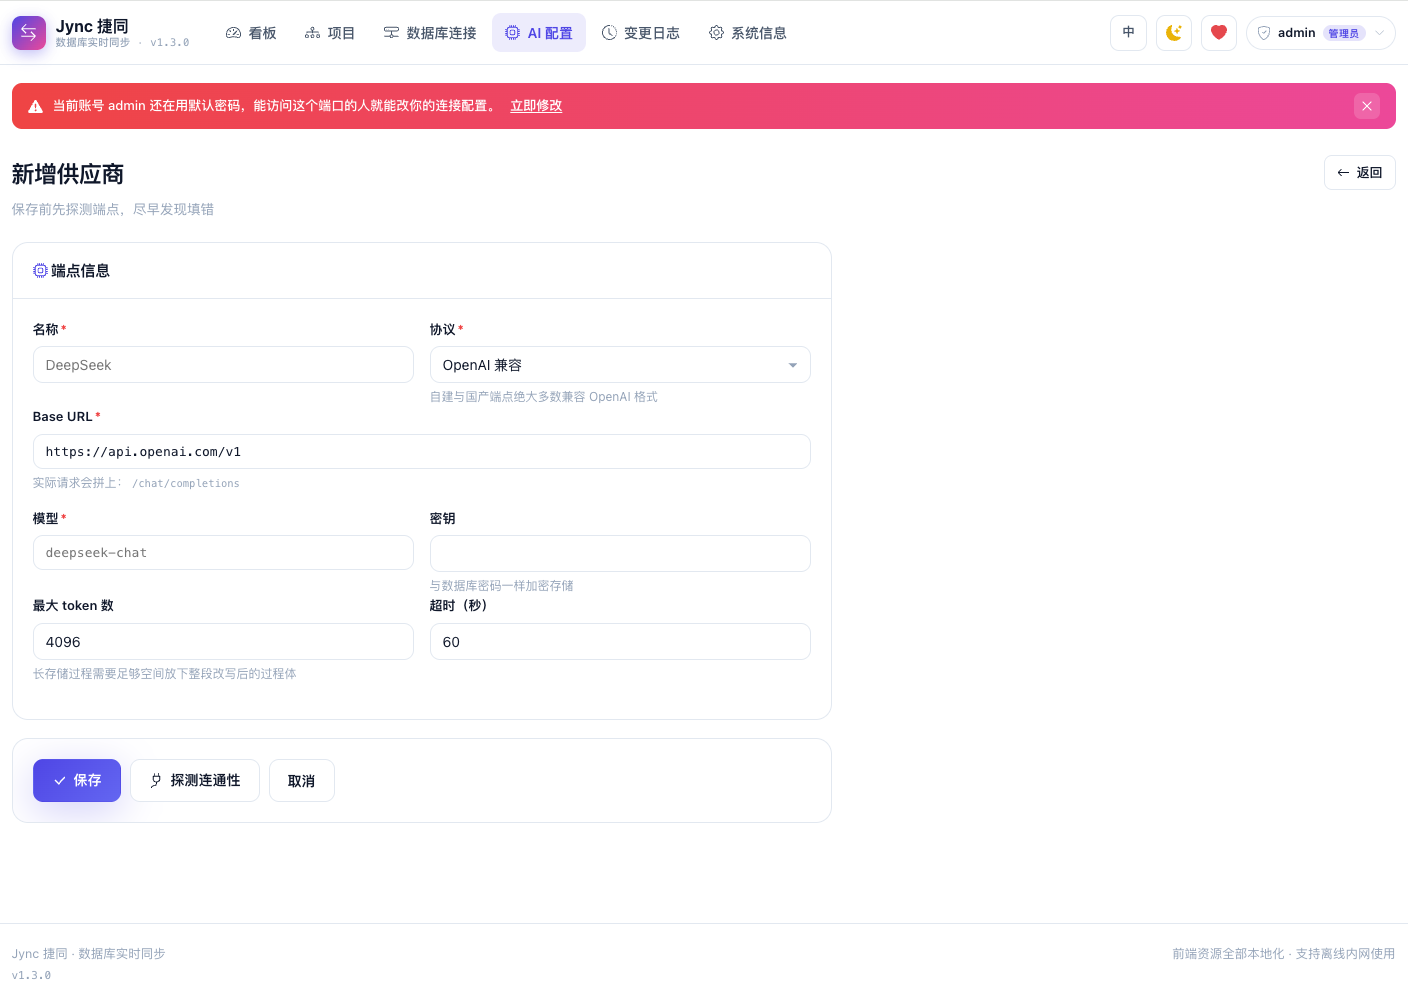
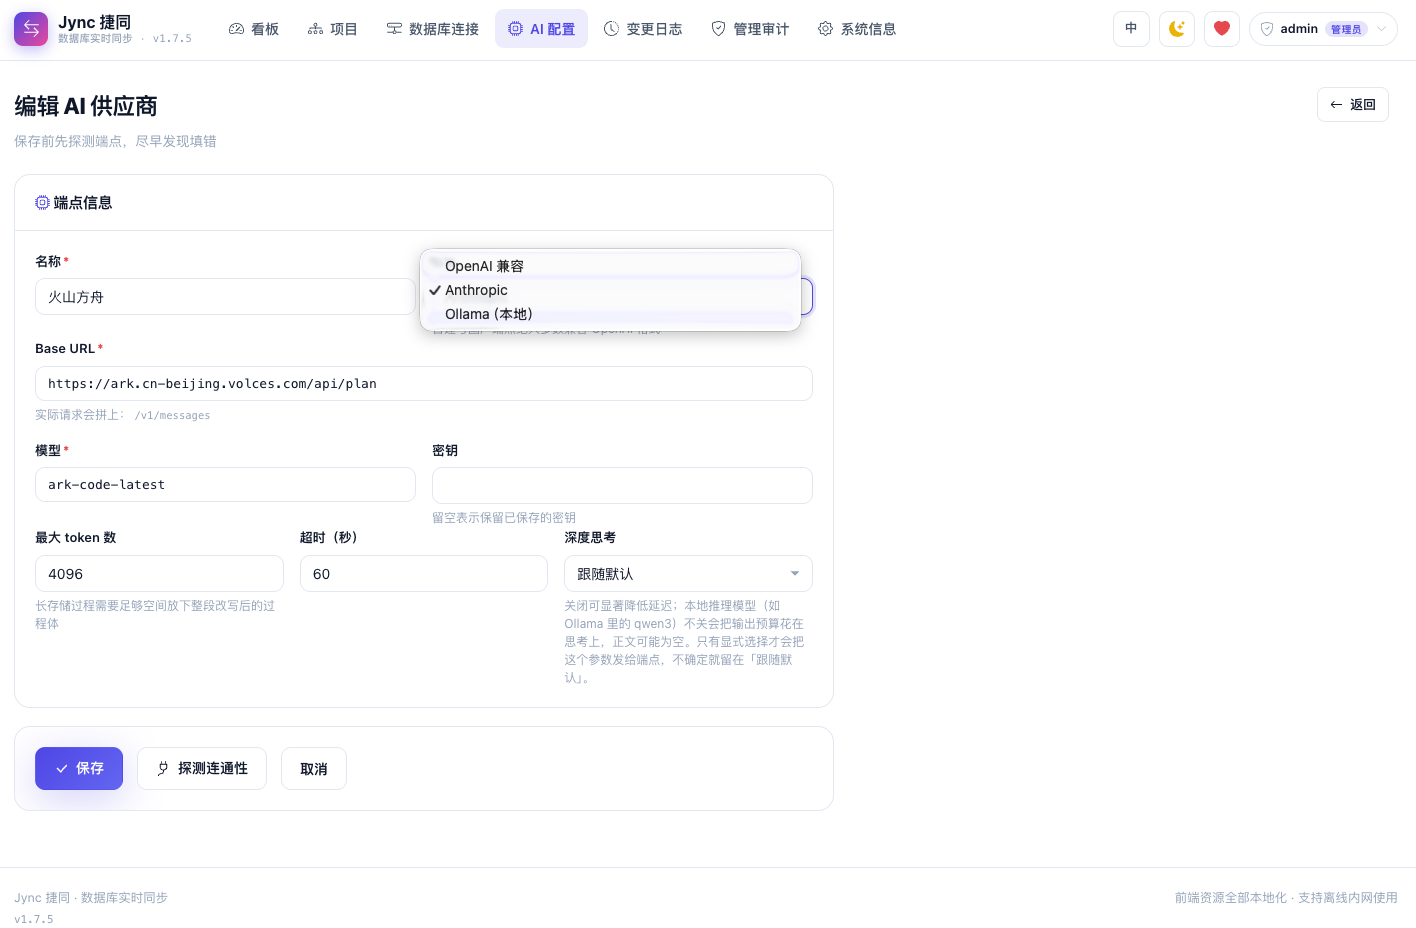
docs: README 同步 AI 配置三协议与推理档位
- 协议由「两种」改为三种，并写明 Ollama 是预设不是第三种协议、走的是
  OpenAI 兼容端点而非原生 /api/chat 及其原因
- 新增深度思考档位一节：四档取值、落参按协议分流、Anthropic 预算必须小于
  max_tokens、跟随默认不发任何字段所以升级不改行为、探测永不携带
- 测试数 1189 → 1338，并补上新覆盖项；合规提示补一句本地端点可直接选预设
- 换用新的 AI 供应商表单截图（含协议下拉与深度思考字段）

diff --git a/README_EN.md b/README_EN.md
@@ -404,10 +404,10 @@ The repo ships a multi-stage `Dockerfile` (the runtime image contains just the J
 docker compose up -d --build
 
 # or, without Compose:
-docker build -t jync:1.7.4 .
+docker build -t jync:1.7.5 .
 docker run -d --name jync -p 8080:8080 \
   -v "$PWD/data:/app/data" -v "$PWD/logs:/app/logs" \
-  -e TZ=Asia/Shanghai --restart unless-stopped jync:1.7.4
+  -e TZ=Asia/Shanghai --restart unless-stopped jync:1.7.5
 ```
 
 Environment-variable overrides (HTTPS cookies, external MySQL for multi-instance setups), TLS, horizontal scaling with more than one replica, image upgrades and troubleshooting are covered in [docs/deploy-container.md](docs/deploy-container.md).
@@ -906,16 +906,19 @@ so two open browser tabs cannot leave two providers enabled.
 
 | Field | Notes |
 |---|---|
-| Protocol | `OpenAI-compatible` or `Anthropic`. Nearly every self-hosted endpoint is the former |
+| Protocol | `OpenAI-compatible`, `Anthropic`, or `Ollama (local)`. Ollama is a preset rather than a third protocol — it speaks the OpenAI shape on `http://localhost:11434/v1` (not its native `/api/chat`), so picking it prefills the address, hides the key field a local model does not need, and relaxes the timeout to 300s. Nearly every self-hosted endpoint is OpenAI-compatible |
 | Base URL | Endpoint root. Vendors disagree about whether `/v1` belongs here, so the form shows the request path that will actually be used |
 | Model | Model name, e.g. `deepseek-chat` |
 | API key | Encrypted with AES-256 like a database password; leave blank when editing to keep the stored value |
 | Max tokens / timeout | A long procedure needs room for the whole rewritten body |
+| Reasoning | `Follow the model default` / `Off` / `Low` / `High`. Turning thinking **off** is not merely faster: thinking tokens come out of the output budget, so a small `max_tokens` leaves the reply empty — the UI spins and then reports an empty model reply. Measured locally against Ollama with `qwen3:8b`, the same request came back ~14× faster with thinking off. The OpenAI shape gets `reasoning_effort`; Anthropic gets `thinking.budget_tokens` (it rejects `reasoning_effort` with a 400). Anthropic requires the budget to be **strictly less than** `max_tokens`, so a Low/High choice means raising max tokens too — refused at save time with a message saying so. `Follow the model default` sends nothing at all, so upgrading never changes an existing provider's requests |
 
 Every provider can be **probed**. The probe sends a real request with `max_tokens: 1`: a TCP or
 `HEAD` check would report success for a wrong key, a misspelled model, or a base URL that is one
 path segment off — the three things that actually go wrong. The outcome is stored and shown as a
-status badge, so rendering the list itself never reaches out to the network.
+status badge, so rendering the list itself never reaches out to the network. The probe never
+carries a reasoning setting: at `max_tokens: 1` a thinking budget would be rejected outright, and
+probing before saving is the whole point of the form.
 
 Enabling a provider makes AI-assisted conversion available. A failed probe does **not** block
 enabling — a transient network problem should not make the setting unsavable — and the list shows
@@ -1006,14 +1009,14 @@ com.qqmu.jync
 mvn test
 ```
 
-1189 unit tests, covering:
+1338 unit tests, covering:
 
 - **Dialect invariants** — every dialect produces a conflict-handling idempotent upsert; bind order matches placeholder count; type mapping never exceeds per-product ceilings (Oracle `VARCHAR2` 4000, SQL Server 4000, DB2 DECIMAL 31, precision-less `NUMBER` never yields `DECIMAL(0,0)`); declared precision is clamped to the ceiling without losing fractional digits; non-portable defaults are dropped rather than emitted as invalid DDL
 - **SQL body rewriting** — string literals, quoted identifiers, line comments, and block comments are never rewritten; escaped quotes inside a literal do not end it early; unterminated literals are preserved verbatim; `SUBSTR` → `SUBSTRING` does not double-hit itself
 - **Cursor strategies** — resolution priority; `IDENTITY` correctly flagged as "may miss updates"; graceful downgrade rather than an error when a configured column becomes invalid; a `VARCHAR` `update_time` is never misused; Oracle row-level SCN probing (`ROWDEPENDENCIES` whitelist, block-level never offered, DM/Yashan not probed)
 - **Cursor serialization** — timestamps round-trip as UTC ISO-8601 without losing millisecond precision; oversized numbers downgrade to `BigDecimal`; corrupt values are treated as "not yet synced" instead of throwing
 - **Password encryption** — round-trip, no double encryption, backward compatibility with legacy plaintext, distinct ciphertexts for identical passwords
-- **AI configuration** — enabling one provider necessarily disables every other (the enabled set is asserted to be exactly one); the global switch masks even an enabled provider; keys are stored encrypted, a blank field on edit keeps the stored one, and the probe receives the plaintext rather than the ciphertext; changing the endpoint clears a stale "reachable" badge; the key appears neither in the probe result nor in the edit page source; OpenAI sends `Authorization: Bearer` while Anthropic sends `x-api-key` and no `Authorization`; a trailing slash or an already-complete endpoint path never produces a doubled path
+- **AI configuration** — enabling one provider necessarily disables every other (the enabled set is asserted to be exactly one); the global switch masks even an enabled provider; keys are stored encrypted, a blank field on edit keeps the stored one, and the probe receives the plaintext rather than the ciphertext; changing the endpoint clears a stale "reachable" badge; the key appears neither in the probe result nor in the edit page source; OpenAI sends `Authorization: Bearer` while Anthropic sends `x-api-key` and no `Authorization`; a trailing slash or an already-complete endpoint path never produces a doubled path; the Ollama preset resolves to `/v1/chat/completions` and an unknown protocol name falls back to the OpenAI shape rather than failing; the reasoning setting splits by protocol (OpenAI shape → `reasoning_effort`, Anthropic → `thinking.budget_tokens` and never `reasoning_effort`); a budget that does not fit under `max_tokens` is omitted rather than sent to fail with a 400, while the same combination is refused at save time so the omission never becomes the normal path; the setting rides along on the streaming path the draft actually uses; the probe carries neither form
 - **AI reply parsing** — SQL is recovered from bare JSON, from a ```` ```json ```` fence, and from half a fence truncated by the token limit; a reply that ignores the output format entirely still has its SQL used, but gains an extra uncertainty entry (a model that would not follow the format probably did not follow "do not invent columns" either); when the model declines the conversion outright its stated reasons are kept rather than discarded as a network error; an empty reply never silently clears the editor; an unconfigured provider throws rather than masquerading as "conversion failed"
 - **Candidate validation** (against real H2) — a same-named object is **byte-identical before and after** a check, including the two forms easiest to get wrong (`CREATE OR REPLACE` and a schema-qualified name); no object is left behind afterwards, and a failed `CREATE` is cleaned up just the same; a statement whose `CREATE` header cannot be parsed is refused rather than forwarded verbatim to the target; the temporary name stays within Oracle's 30-byte limit and two consecutive checks never collide; "the database is unreachable" and "the statement was rejected" do not share one message
 - **Override storage** — the key matches the one `StructureSyncService` actually looks up (`FUNCTION` folds onto `PROCEDURE`); a blank override is refused (an empty-string override is worse than none — the sync would execute it and the object would silently disappear); deleting a key that does not exist writes nothing; overrides whose object was dropped at the source or deselected in the project are flagged as orphans and can be cleared

diff --git a/README.md b/README.md
@@ -136,9 +136,9 @@ nohup java -jar jync.jar --spring.config.additional-location=file:./application.
 **容器部署（Docker / Compose / Kubernetes）**：仓库自带多阶段构建 `Dockerfile`（运行镜像仅 JRE、非 root 运行、内置 HEALTHCHECK）、`docker-compose.yml` 与 `deploy/k8s/`（Kustomize）。一条命令起服务，元数据与日志落在宿主机 `./data`、`./logs`，重建镜像不丢数据：
 
 ```bash
-docker compose up -d --build      # 或：docker build -t jync:1.7.4 . && docker run -d \
+docker compose up -d --build      # 或：docker build -t jync:1.7.5 . && docker run -d \
                                   #   -p 8080:8080 -v "$PWD/data:/app/data" -v "$PWD/logs:/app/logs" \
-                                  #   --restart unless-stopped jync:1.7.4
+                                  #   --restart unless-stopped jync:1.7.5
 ```
 
 环境变量覆盖、TLS、多实例扩容、镜像升级与排障见 [docs/deploy-container.md](docs/deploy-container.md)。
@@ -250,9 +250,11 @@ docker compose up -d --build      # 或：docker build -t jync:1.7.4 . && docker
 
 存储过程的过程化控制流无法靠文本替换可靠翻译，`AI 配置` 提供另一条路：模型**起草候选**，人工审阅后落库。边界是硬的：AI 只产候选、永不参与同步（`StructureSyncService` 不调用任何 AI 代码）；候选经确认才写入 `ddlOverrides`；未启用供应商时不产生任何外部请求；`sync.ai.enabled=false` 可整体下线。
 
-供应商支持 OpenAI 兼容与 Anthropic 两种协议，密钥与库密码同样加密存储；探测发一次 `max_tokens: 1` 的**真实请求**（TCP 探活会把密钥错、模型名错、路径差一段全部误报为成功），失败不阻止启用但列表红标。审阅页左右对照源定义与机械转换结果（即不干预时同步真正执行的语句），模型自述的「不确定项」列在 SQL 之上 —— 比 SQL 本身更值得先读。「语法检查」会在**目标库**以 `JYNC_AI_CHECK_<时间戳>` 真建一次对象再删除，仅手动触发并二次确认；通过只证明目标库接受这段 DDL，不证明语义等价。
+协议有**OpenAI 兼容**、**Anthropic** 和 **Ollama（本地）** 三种可选。Ollama 是预设不是第三种协议：它走 Ollama 的 OpenAI 兼容端点（`http://localhost:11434/v1`，不是原生的 `/api/chat`），选它会把地址自动填好、收起 API 密钥栏（本地模型本就不需要密钥），超时放宽到 300 秒。密钥与库密码同样加密存储；探测发一次 `max_tokens: 1` 的**真实请求**（TCP 探活会把密钥错、模型名错、路径差一段全部误报为成功），失败不阻止启用但列表红标。审阅页左右对照源定义与机械转换结果（即不干预时同步真正执行的语句），模型自述的「不确定项」列在 SQL 之上 —— 比 SQL 本身更值得先读。「语法检查」会在**目标库**以 `JYNC_AI_CHECK_<时间戳>` 真建一次对象再删除，仅手动触发并二次确认；通过只证明目标库接受这段 DDL，不证明语义等价。
 
-> ⚠ 转换会把存储过程源码发往你配置的端点，内网 / 合规部署请接本地推理端点并自行确认代码可外发。
+每个供应商还有一个**深度思考**档位：`跟随模型默认` / `关闭` / `低` / `高`。**关闭思考对本地推理模型不只是省时间**：思考 token 计入输出预算，`max_tokens` 偏小时正文会被思考挤空，界面上表现为一直转圈然后报「模型返回了空内容」；本机 Ollama + `qwen3:8b` 实测同一请求关闭后快约 14 倍。落参按协议分流 —— OpenAI 形状发 `reasoning_effort`，Anthropic 发 `thinking.budget_tokens`（它不认 `reasoning_effort`，发过去就是 400）。Anthropic 的思考预算必须**严格小于** `max_tokens`，所以选低/高档后要把最大 token 数一并调大，保存时会校验并提示；`跟随模型默认`是默认值且**一个字段都不发**，因此升级不改变任何已有供应商的请求。探测永远不携带推理参数（它是 `max_tokens: 1` 的最小请求，带上必被端点拒）。
+
+> ⚠ 转换会把存储过程源码发往你配置的端点，内网 / 合规部署请接本地推理端点（本机装了 Ollama 就直接选「Ollama（本地）」预设，不出内网）并自行确认代码可外发。
 
 ---
 
@@ -305,7 +307,7 @@ com.qqmu.jync
 mvn test
 ```
 
-1189 个单元测试，重点覆盖：各方言幂等 upsert 与类型上限不变量；SQL 正文改写不碰字面量 / 注释；游标策略解析与降级、Oracle 行级 SCN 探测；游标序列化往返；密码加密与 AI 密钥加密；AI 启用互斥与应答解析（含截断围栏、拒答、空应答）；候选校验在 H2 实库确认不留残留、同名对象内容不变；页面渲染全条件分支且无 `??`；授权规则（访客 POST 全拒、CSRF 缺失即拒）；分页窗口与省略号展开；立即同步补跑合并；分块全量 keyset SQL 形状、检查点生命周期、并行分段不重叠与 long 溢出回退；日志 CDC 探测七项、位点纪律（先数据后位点）、租约互斥与切换序列；版本检查 GitHub→Gitee 双通道兜底；一键升级的下载校验、改名替换与备份、marker 状态恢复、重启/回滚脚本生成；hidden 属性显示契约（作者 display 样式不得压过 hidden）；README 文档守卫。
+1338 个单元测试，重点覆盖：各方言幂等 upsert 与类型上限不变量；SQL 正文改写不碰字面量 / 注释；游标策略解析与降级、Oracle 行级 SCN 探测；游标序列化往返；密码加密与 AI 密钥加密；AI 启用互斥与应答解析（含截断围栏、拒答、空应答）；推理档位按协议分流（OpenAI 形状落 `reasoning_effort`、Anthropic 落 `thinking.budget_tokens`）、预算塞不进 `max_tokens` 时宁可不思考也不让请求 400、预算不足在保存时即被拒、探测永不携带推理参数；Ollama 预设端点路径与未知协议名回落 OpenAI 兼容；候选校验在 H2 实库确认不留残留、同名对象内容不变；页面渲染全条件分支且无 `??`；授权规则（访客 POST 全拒、CSRF 缺失即拒）；分页窗口与省略号展开；立即同步补跑合并；分块全量 keyset SQL 形状、检查点生命周期、并行分段不重叠与 long 溢出回退；日志 CDC 探测七项、位点纪律（先数据后位点）、租约互斥与切换序列；版本检查 GitHub→Gitee 双通道兜底；一键升级的下载校验、改名替换与备份、marker 状态恢复、重启/回滚脚本生成；hidden 属性显示契约（作者 display 样式不得压过 hidden）；README 文档守卫。
 
 真实库集成测试（`*IT`，不进默认套件，需 Docker）：`OracleMigrationHarnessIT`（Oracle 23ai：并行分段全量、kill 后续传、`ROWDEPENDENCIES` 全链路）、`CdcBaselineStreamingIT` / `CdcVolumeAndTypesIT` / `CdcResilienceIT`（MySQL 8 binlog：基线→流式、崩溃重跑、十万行一致、purge 与断线故障）。显式运行加 `-Dapi.version=1.44`。另有端到端脚本（H2 源/目标，20 项断言）覆盖全量、增量、幂等、DDL 传播、并发写入一致与停机补齐。
 
